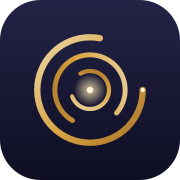
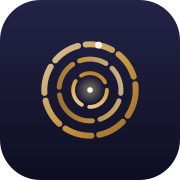
fix(motif): mark rebuilt from source geometry — faithful proportions, one consistent orbit; Insights reflection cached

Changed region(s): [[0.1667, 0.1667, 0.8333, 0.8333]]

diff --git a/anima-app/src/components/brand/MotifMark.tsx b/anima-app/src/components/brand/MotifMark.tsx
@@ -1,49 +1,38 @@
 import { useId } from 'react';
 import { useReducedMotion } from 'framer-motion';
 
-interface Props {
-  size?: number;
-  /** gentle scale pulse (the mark is "alive") */
-  breathing?: boolean;
-  /** orbit the arcs */
-  spin?: boolean;
-  /** seconds for the outer arc's full orbit (bigger = calmer) */
-  spinSpeed?: number;
-}
+interface Props { size?: number; }
 
 /**
- * The Motif mark: three concentric broken arcs orbiting a glowing core.
- * Pure SVG + CSS — no Lottie runtime — so it stays sharp at any size.
- * Rotation directions/speeds mirror the original splash animation:
- * outer CW, middle CCW, inner CW.
+ * The Motif mark — three concentric broken arcs orbiting a luminous core.
+ * Geometry is taken verbatim from the source animation: outer 14s CW,
+ * middle 10s CCW, inner 7s CW; 78% arcs at 0/120/240° offsets; per-layer
+ * opacity 90/85/100; matching stroke-to-radius ratios. The viewBox frames
+ * tightly to the artwork so the emblem holds its own beside the wordmark,
+ * while the home-screen icon keeps airier padding. Pure SVG + CSS, so it
+ * stays razor-sharp from 22px to the splash. One calm linear orbit on every
+ * screen — the motion is the brand. Honours prefers-reduced-motion.
  */
-export function MotifMark({ size = 32, breathing = false, spin = false, spinSpeed = 14 }: Props) {
+export function MotifMark({ size = 32 }: Props) {
   const reduce = useReducedMotion();
-  const spinOn = spin && !reduce;
-  const breatheOn = breathing && !reduce;
+  const spinOn = !reduce;
   const uid = useId().replace(/[:]/g, '');
   const gold = `mg-${uid}`;
   const glow = `mgg-${uid}`;
+  const C = 29; // centre of the 58-unit frame
 
   const arcs = [
-    { r: 42, sw: 5, off: 0, dir: 'motif-cw', ratio: 1, comet: true },
-    { r: 28, sw: 4, off: 120, dir: 'motif-ccw', ratio: 0.714, comet: false },
-    { r: 15, sw: 3.4, off: 240, dir: 'motif-cw', ratio: 0.5, comet: false },
+    { r: 25.4, sw: 3.30, off: 0,   dir: 'motif-cw',  ratio: 1,        op: 0.90, comet: true  },
+    { r: 17.1, sw: 2.74, off: 120, dir: 'motif-ccw', ratio: 10 / 14,  op: 0.85, comet: false },
+    { r: 9.3,  sw: 2.16, off: 240, dir: 'motif-cw',  ratio: 7 / 14,   op: 1.00, comet: false },
   ];
 
   return (
-    <div
-      className={breatheOn ? 'animate-breathe' : ''}
-      style={{ width: size, height: size, lineHeight: 0 }}
-    >
+    <div style={{ width: size, height: size, lineHeight: 0 }}>
       <svg
-        width={size}
-        height={size}
-        viewBox="0 0 100 100"
-        fill="none"
-        aria-label="Motif"
-        role="img"
-        style={{ filter: 'drop-shadow(0 0 3px var(--amber-glow))' }}
+        width={size} height={size} viewBox="0 0 58 58" fill="none"
+        aria-label="Motif" role="img"
+        style={{ overflow: 'visible', filter: 'drop-shadow(0 0 3px var(--amber-glow))' }}
       >
         <defs>
           <linearGradient id={gold} x1="0" y1="0" x2="1" y2="1">
@@ -57,42 +46,32 @@ export function MotifMark({ size = 32, breathing = false, spin = false, spinSpee
           </radialGradient>
         </defs>
 
-        {arcs.map((a, i) => {
-          const c = 2 * Math.PI * a.r;
-          const dash = `${(0.78 * c).toFixed(2)} ${(0.22 * c).toFixed(2)}`;
-          return (
-            <g
-              key={i}
-              style={{
-                transformBox: 'view-box',
-                transformOrigin: 'center',
-                animation: spinOn
-                  ? `${a.dir} ${(spinSpeed * a.ratio).toFixed(2)}s linear infinite`
-                  : undefined,
-              }}
-            >
+        {arcs.map((a, i) => (
+          <g
+            key={i}
+            style={{
+              transformBox: 'view-box',
+              transformOrigin: 'center',
+              animation: spinOn ? `${a.dir} ${(14 * a.ratio).toFixed(2)}s linear infinite` : undefined,
+            }}
+          >
+            <circle
+              cx={C} cy={C} r={a.r} fill="none"
+              stroke={`url(#${gold})`} strokeWidth={a.sw} strokeLinecap="round"
+              strokeOpacity={a.op} pathLength={100} strokeDasharray="78 22"
+              transform={`rotate(${a.off} ${C} ${C})`}
+            />
+            {a.comet && (
               <circle
-                cx="50" cy="50" r={a.r}
-                fill="none"
-                stroke={`url(#${gold})`}
-                strokeWidth={a.sw}
-                strokeLinecap="round"
-                strokeDasharray={dash}
-                transform={`rotate(${a.off} 50 50)`}
+                cx={C + a.r} cy={C} r={a.sw * 0.62} fill="var(--comet)"
+                transform={`rotate(${a.off + 280.8} ${C} ${C})`}
               />
-              {a.comet && (
-                <circle
-                  cx={50 + a.r} cy="50" r={a.sw * 0.6}
-                  fill="var(--comet)"
-                  transform={`rotate(${a.off} 50 50)`}
-                />
-              )}
-            </g>
-          );
-        })}
+            )}
+          </g>
+        ))}
 
-        <circle cx="50" cy="50" r="9" fill={`url(#${glow})`} />
-        <circle cx="50" cy="50" r="1.9" fill="var(--comet)" />
+        <circle cx={C} cy={C} r="5" fill={`url(#${glow})`} opacity="0.55" />
+        <circle cx={C} cy={C} r="1.05" fill="var(--comet)" />
       </svg>
     </div>
   );

diff --git a/anima-app/src/app/Insights.tsx b/anima-app/src/app/Insights.tsx
@@ -4,6 +4,31 @@ import { TrendUp, Trophy } from '@phosphor-icons/react';
 import { getInsights, streamReflection } from '../lib/api';
 import { MotifMark } from '../components/brand/MotifMark';
 
+const CACHE_KEY = 'motif-reflection';
+
+function todayStr(): string {
+  const d = new Date();
+  const m = String(d.getMonth() + 1).padStart(2, '0');
+  const day = String(d.getDate()).padStart(2, '0');
+  return `${d.getFullYear()}-${m}-${day}`;
+}
+
+interface CachedReflection { signature: string; day: string; text: string; }
+
+function loadCache(): CachedReflection | null {
+  try {
+    const raw = localStorage.getItem(CACHE_KEY);
+    if (!raw) return null;
+    const p = JSON.parse(raw);
+    if (p && typeof p.text === 'string' && p.signature && p.day) return p as CachedReflection;
+  } catch { /* ignore */ }
+  return null;
+}
+
+function saveCache(c: CachedReflection) {
+  try { localStorage.setItem(CACHE_KEY, JSON.stringify(c)); } catch { /* ignore */ }
+}
+
 function Cursor() {
   return (
     <motion.span
@@ -43,26 +68,52 @@ export function Insights() {
   const [reflecting, setReflecting] = useState(false);
   const controllerRef = useRef<AbortController | null>(null);
 
-  const reflect = () => {
-    // Cancel any in-flight reflection (also kills the StrictMode duplicate)
+  /**
+   * Generate a fresh reflection and cache it on clean completion.
+   * Each call owns its abort signal + accumulator, so an aborted stream
+   * (e.g. navigating away) never saves a half-finished sentence.
+   */
+  const reflect = (signature: string) => {
     controllerRef.current?.abort();
     const controller = new AbortController();
     controllerRef.current = controller;
+    const signal = controller.signal;
+    let pending = '';
+    const day = todayStr();
     setReflecting(true);
     setReflection('');
     streamReflection(
-      (t) => setReflection((prev) => prev + t),
-      () => setReflecting(false),
-      controller.signal,
-    ).catch(() => {
-      if (!controller.signal.aborted) setReflecting(false);
-    });
+      (t) => { if (signal.aborted) return; pending += t; setReflection(pending); },
+      () => {
+        if (signal.aborted) return;          // torn down → don't finalise or cache
+        setReflecting(false);
+        if (pending.trim()) saveCache({ signature, day, text: pending });
+      },
+      signal,
+    ).catch(() => { if (!signal.aborted) setReflecting(false); });
   };
 
   useEffect(() => {
-    getInsights().then(setData).catch(() => {});
-    reflect();
-    return () => controllerRef.current?.abort();
+    let cancelled = false;
+    getInsights()
+      .then((d) => {
+        if (cancelled) return;
+        setData(d);
+        const sig = d?.signature ?? '';
+        const day = todayStr();
+        const cached = loadCache();
+        // Cache hit → instant, no LLM. Miss (new data or new day) → generate once.
+        if (cached && cached.signature === sig && cached.day === day && cached.text) {
+          setReflection(cached.text);
+        } else {
+          reflect(sig);
+        }
+      })
+      .catch(() => {});
+    return () => {
+      cancelled = true;
+      controllerRef.current?.abort();
+    };
     // eslint-disable-next-line react-hooks/exhaustive-deps
   }, []);
 
@@ -81,7 +132,7 @@ export function Insights() {
 
         <div className="rounded-card border border-lantern/25 bg-surface p-5 shadow-[0_0_30px_rgba(245,184,65,0.06)]">
           <div className="flex items-center gap-2.5">
-            <MotifMark size={24} breathing={reflecting} />
+            <MotifMark size={24} />
             <span className="font-wizard text-lg">The wizard reflects</span>
           </div>
           <div className="mt-3 text-[16px] leading-relaxed">
@@ -97,11 +148,11 @@ export function Insights() {
             )}
           </div>
           <button
-            onClick={reflect}
+            onClick={() => reflect(data?.signature ?? '')}
             disabled={reflecting}
             className="mt-4 rounded-full border border-line px-5 py-2 text-sm text-muted transition-colors hover:border-lantern/50 hover:text-lantern disabled:opacity-50"
           >
-            {reflecting ? 'Reflecting\u2026' : 'Reflect again'}
+            {reflecting ? 'Reflecting…' : 'Reflect again'}
           </button>
         </div>
 
@@ -117,7 +168,7 @@ export function Insights() {
                     <p className="text-sm font-medium">{iv.name}</p>
                     {iv.avg_improvement != null && iv.avg_improvement > 0 && (
                       <span className="shrink-0 text-sm text-sage">
-                        {'\u2193'} {iv.avg_improvement} pts
+                        {'↓'} {iv.avg_improvement} pts
                       </span>
                     )}
                   </div>

diff --git a/anima-app/src/app/AppShell.tsx b/anima-app/src/app/AppShell.tsx
@@ -31,7 +31,7 @@ export function AppShell() {
     <div className="mx-auto flex h-[100dvh] max-w-md flex-col bg-bg text-ink">
       <header className="flex items-center justify-between px-5 pb-3 pt-6">
         <div className="flex items-center gap-2.5">
-          <MotifMark size={30} breathing />
+          <MotifMark size={30} />
           <span className="font-wizard text-xl tracking-tight">Motif</span>
         </div>
         <ThemeToggle />
@@ -69,7 +69,7 @@ export function AppShell() {
 function ScreenPlaceholder({ name }: { name: TabId }) {
   return (
     <div className="flex h-full flex-col items-center justify-center gap-4 text-center">
-      <MotifMark size={56} breathing />
+      <MotifMark size={56} />
       <p className="font-wizard text-2xl capitalize">{name}</p>
       <p className="max-w-xs text-sm leading-relaxed text-muted">
         This is where the {name} experience will live. We build it next.

diff --git a/anima-app/src/app/Companion.tsx b/anima-app/src/app/Companion.tsx
@@ -93,10 +93,7 @@ export function Companion() {
       {/* The wizard's presence */}
       <div className="relative flex items-center gap-3 pb-4 pt-2">
         <div className="relative">
-          <MotifMark size={40} breathing />
-          {isStreaming && (
-            <span className="absolute inset-0 -z-10 animate-glow rounded-full bg-lantern/20 blur-xl" />
-          )}
+          <MotifMark size={40} />
         </div>
         <div>
           <p className="font-wizard text-lg leading-tight">The Wizard</p>
@@ -186,7 +183,7 @@ function WizardBubble({ msg }: { msg: Message }) {
       className="flex gap-3"
     >
       <div className="mt-1 shrink-0">
-        <MotifMark size={26} breathing={!!msg.streaming} />
+        <MotifMark size={26} />
       </div>
       <div className="min-w-0">
         {waiting ? (

diff --git a/anima-app/src/app/Today.tsx b/anima-app/src/app/Today.tsx
@@ -174,7 +174,7 @@ export function Today() {
             {!meta?.protocol && (
               <div className="flex gap-3">
                 <div className="mt-1 shrink-0">
-                  <MotifMark size={26} breathing={phase === 'listening'} />
+                  <MotifMark size={26} />
                 </div>
                 <div className="min-w-0">
                   {phase === 'listening' && !wizardMsg ? (

diff --git a/anima-app/src/components/brand/Splash.tsx b/anima-app/src/components/brand/Splash.tsx
@@ -25,7 +25,7 @@ export function Splash() {
           }}
         >
           <div className="flex flex-col items-center gap-6">
-            <MotifMark size={116} spin={!reduce} spinSpeed={14} />
+            <MotifMark size={116} />
             <motion.p
               initial={{ opacity: 0, y: 8 }}
               animate={{ opacity: 1, y: 0 }}

diff --git a/demo/wellness/insights.py b/demo/wellness/insights.py
@@ -103,5 +103,23 @@ Speak directly to them in your warm, wise voice. Name one or two things you noti
     yield {"type": "done"}
 
 
+def _recent_signature() -> str:
+    """Cheap fingerprint of the last 7 days; changes whenever new data lands."""
+    entries = get_recent_memory(days=7)
+
+    def n(t):
+        return sum(1 for e in entries if e.get("type") == t)
+
+    last_ts = entries[-1].get("timestamp", "") if entries else ""
+    return (
+        f"{n('mood')}|{n('intervention')}|{n('win')}|"
+        f"{n('sleep')}|{n('hydration')}|{last_ts}"
+    )
+
+
 def get_insights_summary() -> dict:
-    return {"wins": get_wins(), "effective": get_effective_interventions()}
+    return {
+        "wins": get_wins(),
+        "effective": get_effective_interventions(),
+        "signature": _recent_signature(),
+    }
